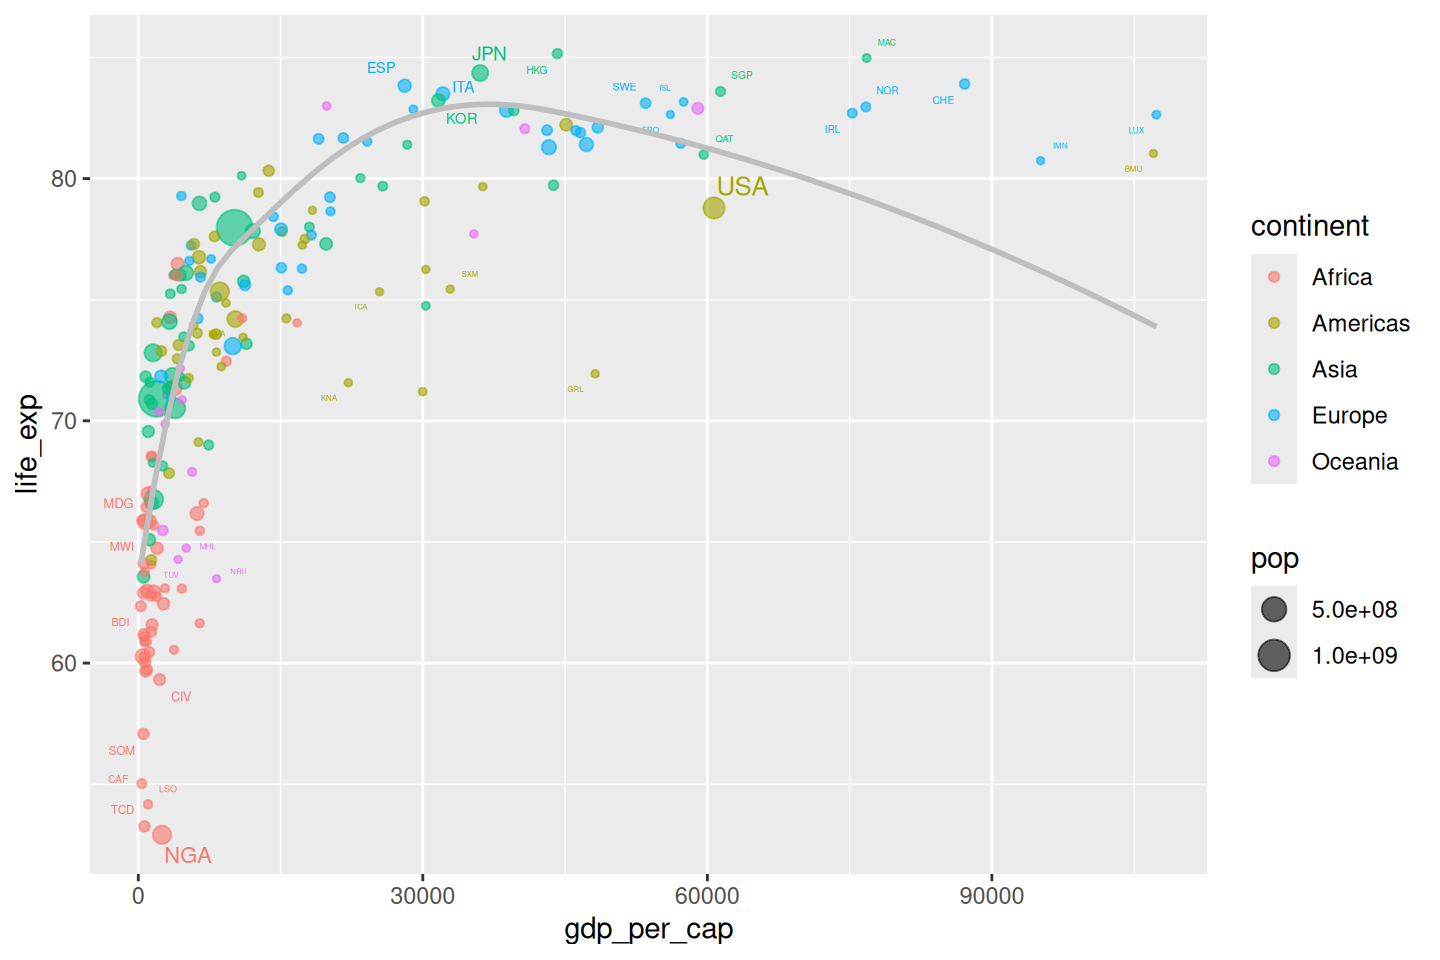
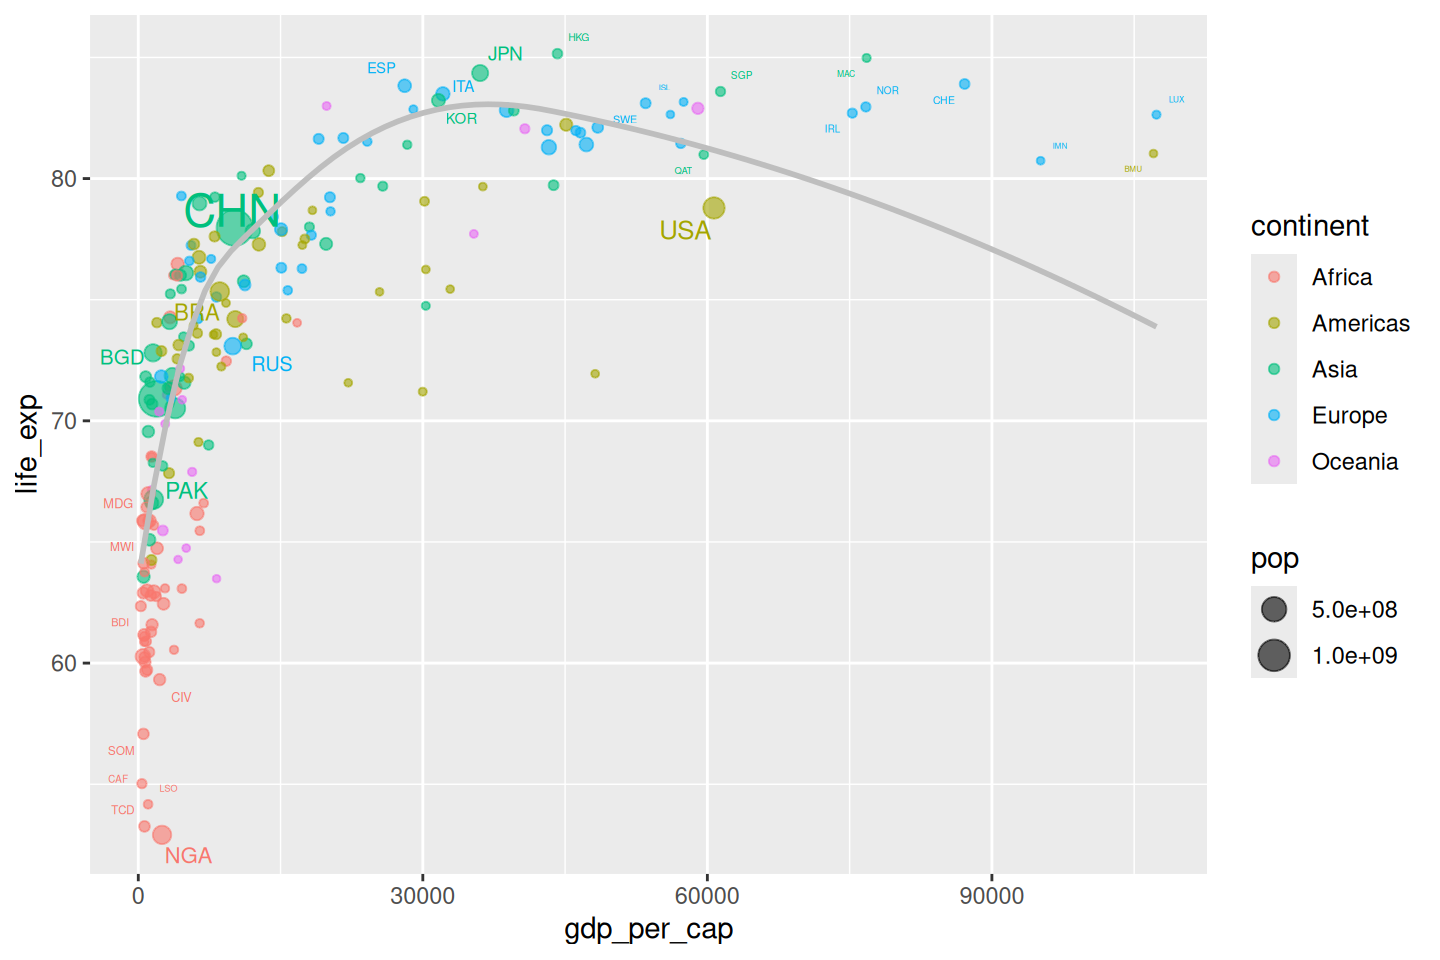
fix(x-label scale): Fixed X-Label Scale

diff --git a/Week5_TeamLabAssignment/Lab_5.html b/Week5_TeamLabAssignment/Lab_5.html
@@ -420,7 +420,7 @@ Caused by warning:
 <span id="cb31-11"><a href="#cb31-11" aria-hidden="true" tabindex="-1"></a>      <span class="co"># Shortest life expectancy</span></span>
 <span id="cb31-12"><a href="#cb31-12" aria-hidden="true" tabindex="-1"></a>      <span class="fu">rank</span>(<span class="fu">desc</span>(life_exp)) <span class="sc">&lt;=</span> <span class="dv">10</span> <span class="sc">~</span> code,</span>
 <span id="cb31-13"><a href="#cb31-13" aria-hidden="true" tabindex="-1"></a>      <span class="co"># Most populous</span></span>
-<span id="cb31-14"><a href="#cb31-14" aria-hidden="true" tabindex="-1"></a>      <span class="fu">rank</span>(pop) <span class="sc">&lt;=</span> <span class="dv">10</span> <span class="sc">~</span> code,</span>
+<span id="cb31-14"><a href="#cb31-14" aria-hidden="true" tabindex="-1"></a>      <span class="fu">rank</span>(<span class="fu">desc</span>(pop)) <span class="sc">&lt;=</span> <span class="dv">10</span> <span class="sc">~</span> code,</span>
 <span id="cb31-15"><a href="#cb31-15" aria-hidden="true" tabindex="-1"></a>      <span class="co"># other countries</span></span>
 <span id="cb31-16"><a href="#cb31-16" aria-hidden="true" tabindex="-1"></a>      <span class="cn">TRUE</span> <span class="sc">~</span> <span class="st">""</span></span>
 <span id="cb31-17"><a href="#cb31-17" aria-hidden="true" tabindex="-1"></a>    )</span>
@@ -477,7 +477,7 @@ Caused by warning:
 <span id="cb34-8"><a href="#cb34-8" aria-hidden="true" tabindex="-1"></a><span class="co"># Display the plot</span></span>
 <span id="cb34-9"><a href="#cb34-9" aria-hidden="true" tabindex="-1"></a>p</span></code><button title="Copy to Clipboard" class="code-copy-button"><i class="bi"></i></button></pre></div>
 <div class="cell-output cell-output-stderr">
-<pre><code>Warning: ggrepel: 9 unlabeled data points (too many overlaps). Consider
+<pre><code>Warning: ggrepel: 11 unlabeled data points (too many overlaps). Consider
 increasing max.overlaps</code></pre>
 </div>
 <div class="cell-output-display">
@@ -512,7 +512,7 @@ increasing max.overlaps</code></pre>
 <pre><code>`geom_smooth()` using formula = 'y ~ x'</code></pre>
 </div>
 <div class="cell-output cell-output-stderr">
-<pre><code>Warning: ggrepel: 9 unlabeled data points (too many overlaps). Consider
+<pre><code>Warning: ggrepel: 11 unlabeled data points (too many overlaps). Consider
 increasing max.overlaps</code></pre>
 </div>
 <div class="cell-output-display">
@@ -545,7 +545,7 @@ increasing max.overlaps</code></pre>
 <pre><code>`geom_smooth()` using formula = 'y ~ x'</code></pre>
 </div>
 <div class="cell-output cell-output-stderr">
-<pre><code>Warning: ggrepel: 9 unlabeled data points (too many overlaps). Consider
+<pre><code>Warning: ggrepel: 12 unlabeled data points (too many overlaps). Consider
 increasing max.overlaps</code></pre>
 </div>
 <div class="cell-output-display">
@@ -565,7 +565,7 @@ increasing max.overlaps</code></pre>
 <span id="cb44-2"><a href="#cb44-2" aria-hidden="true" tabindex="-1"></a>p <span class="ot">&lt;-</span> p <span class="sc">+</span></span>
 <span id="cb44-3"><a href="#cb44-3" aria-hidden="true" tabindex="-1"></a>  <span class="fu">scale_x_log10</span>(</span>
 <span id="cb44-4"><a href="#cb44-4" aria-hidden="true" tabindex="-1"></a>    <span class="at">breaks =</span> <span class="fu">breaks_log</span>(<span class="at">n =</span> <span class="dv">10</span>),</span>
-<span id="cb44-5"><a href="#cb44-5" aria-hidden="true" tabindex="-1"></a>    <span class="at">labels =</span> scales<span class="sc">::</span><span class="fu">dollar_format</span>(<span class="at">scale =</span> <span class="fl">0.001</span>)</span>
+<span id="cb44-5"><a href="#cb44-5" aria-hidden="true" tabindex="-1"></a>    <span class="at">labels =</span> scales<span class="sc">::</span><span class="fu">label_number</span>(<span class="at">scale =</span> <span class="dv">1</span>, <span class="at">suffix =</span> <span class="st">""</span>)</span>
 <span id="cb44-6"><a href="#cb44-6" aria-hidden="true" tabindex="-1"></a>  )</span>
 <span id="cb44-7"><a href="#cb44-7" aria-hidden="true" tabindex="-1"></a></span>
 <span id="cb44-8"><a href="#cb44-8" aria-hidden="true" tabindex="-1"></a><span class="co"># Display the plot</span></span>
@@ -600,7 +600,7 @@ increasing max.overlaps</code></pre>
 <pre><code>`geom_smooth()` using formula = 'y ~ x'</code></pre>
 </div>
 <div class="cell-output cell-output-stderr">
-<pre><code>Warning: ggrepel: 1 unlabeled data points (too many overlaps). Consider
+<pre><code>Warning: ggrepel: 6 unlabeled data points (too many overlaps). Consider
 increasing max.overlaps</code></pre>
 </div>
 <div class="cell-output-display">
@@ -626,7 +626,7 @@ increasing max.overlaps</code></pre>
 <pre><code>`geom_smooth()` using formula = 'y ~ x'</code></pre>
 </div>
 <div class="cell-output cell-output-stderr">
-<pre><code>Warning: ggrepel: 1 unlabeled data points (too many overlaps). Consider
+<pre><code>Warning: ggrepel: 6 unlabeled data points (too many overlaps). Consider
 increasing max.overlaps</code></pre>
 </div>
 <div class="cell-output-display">
@@ -654,7 +654,7 @@ increasing max.overlaps</code></pre>
 <pre><code>`geom_smooth()` using formula = 'y ~ x'</code></pre>
 </div>
 <div class="cell-output cell-output-stderr">
-<pre><code>Warning: ggrepel: 1 unlabeled data points (too many overlaps). Consider
+<pre><code>Warning: ggrepel: 6 unlabeled data points (too many overlaps). Consider
 increasing max.overlaps</code></pre>
 </div>
 <div class="cell-output-display">
@@ -680,7 +680,7 @@ increasing max.overlaps</code></pre>
 <pre><code>`geom_smooth()` using formula = 'y ~ x'</code></pre>
 </div>
 <div class="cell-output cell-output-stderr">
-<pre><code>Warning: ggrepel: 1 unlabeled data points (too many overlaps). Consider
+<pre><code>Warning: ggrepel: 6 unlabeled data points (too many overlaps). Consider
 increasing max.overlaps</code></pre>
 </div>
 <div class="cell-output-display">
